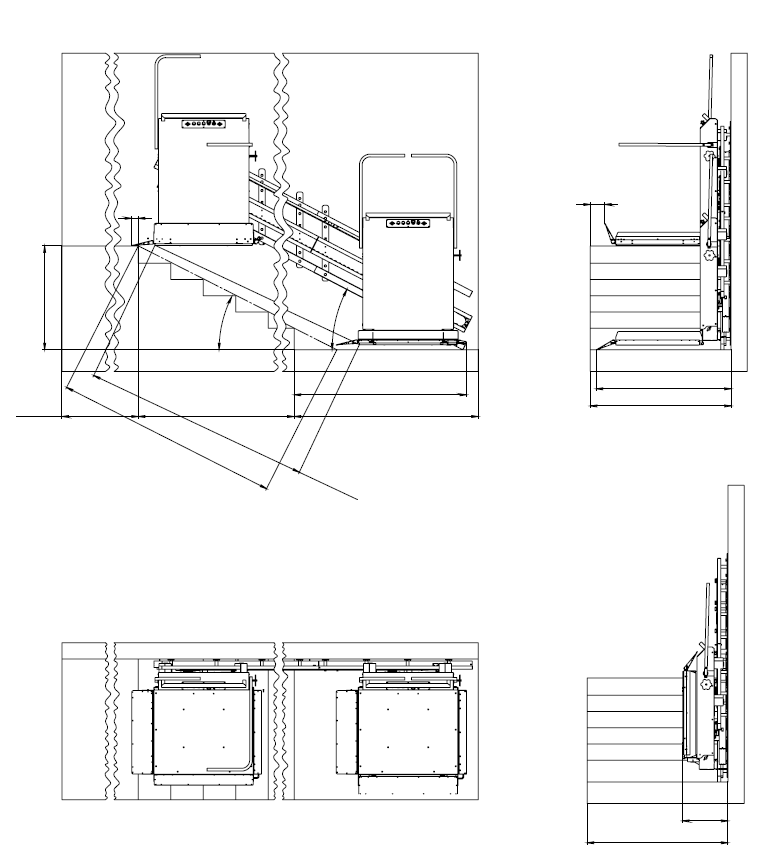
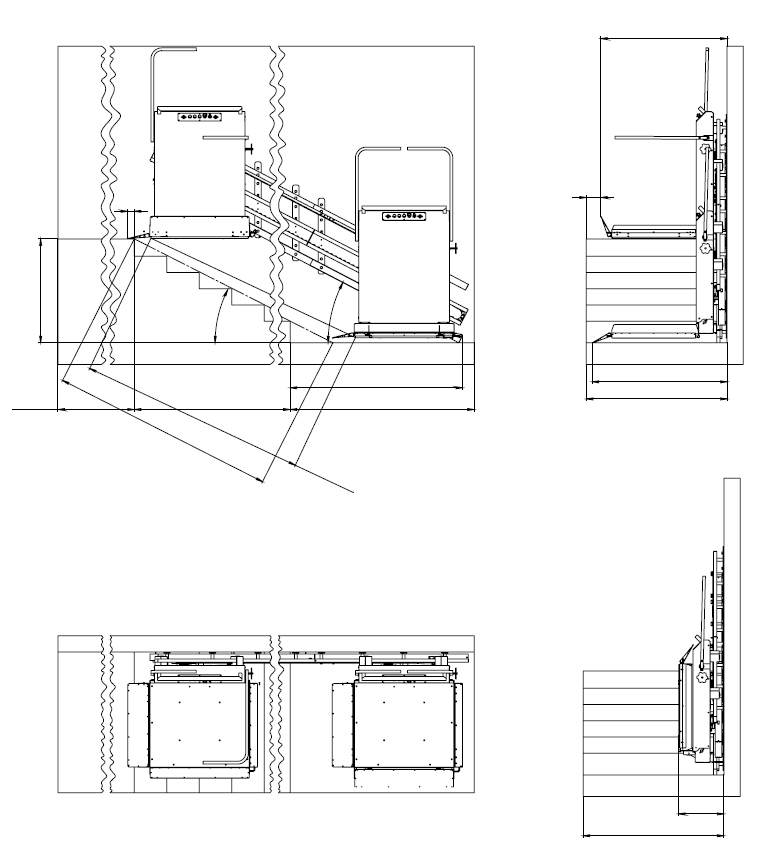
add

diff --git a/src/main/resources/templates/et/et-side-to-wall.html b/src/main/resources/templates/et/et-side-to-wall.html
@@ -22,46 +22,47 @@
     <main>
         <div class="container">
             <br>
-            <p class="text-center" style="color: #0f4c81"><b>Проходной к стене</b></p>
+            <p class="text-center" style="color: #0f4c81"><b>Боковой к стене</b></p>
             <div style="position: relative">
                 <img th:src="@{img/ЕТtoWallSide.png}" alt="Боковой к стене" width="780px"/>
 
-                <p class="text-on-img" style=" margin-top: -540px; margin-left: 210px; transform-origin: left; transform: rotate(-75deg);"
+                <p class="text-on-img" style=" margin-top: -540px; margin-left: 205px; transform-origin: left; transform: rotate(-75deg);"
                    th:text="${stair.angle} + '°'"/>
                 <p class="text-on-img" style=" margin-top: -432px; margin-left: 205px; transform-origin: left; transform: rotate(26deg);"
                    th:text="${stair.lengthStair}"/>
-                <p class="text-on-img" style=" margin-top: -560px; margin-left: 36px; transform-origin: left; transform: rotate(-90deg);"
+                <p class="text-on-img" style=" margin-top: -560px; margin-left: 31px; transform-origin: left; transform: rotate(-90deg);"
                    th:text="${stair.heightStair}"/>
 
-                <p class="text-on-img" style=" margin-top: -471px; margin-left: 18px; color: black" th:if="${et.rampClearance}" th:text="${stair.upperFloor}"/>
-                <p class="text-on-img" style=" margin-top: -471px; margin-left: 18px; color: red" th:unless="${et.rampClearance}" th:text="${stair.upperFloor}"/>
+                <p class="text-on-img" style=" margin-top: -473px; margin-left: 13px; color: black" th:if="${et.rampClearance}" th:text="${stair.upperFloor}"/>
+                <p class="text-on-img" style=" margin-top: -473px; margin-left: 13px; color: red" th:unless="${et.rampClearance}" th:text="${stair.upperFloor}"/>
 
-                <p class="text-on-img" style=" margin-top: -471px; margin-left: 400px; color: black" th:if="${et.lengthLowerPassing}" th:text="${stair.downFloor}"/>
-                <p class="text-on-img" style=" margin-top: -471px; margin-left: 400px; color: red" th:unless="${et.lengthLowerPassing}" th:text="${stair.downFloor}"/>
+                <p class="text-on-img" style=" margin-top: -473px; margin-left: 395px; color: black" th:if="${et.lengthLowerPassing}" th:text="${stair.downFloor}"/>
+                <p class="text-on-img" style=" margin-top: -473px; margin-left: 395px; color: red" th:unless="${et.lengthLowerPassing}" th:text="${stair.downFloor}"/>
 
-                <p class="text-on-img" style=" margin-top: -471px; margin-left: 240px;" th:text="${stair.horizontalLength}"/>
+                <p class="text-on-img" style=" margin-top: -473px; margin-left: 235px;" th:text="${stair.horizontalLength}"/>
 
-                <p class="text-on-img" style=" margin-top: -480px; margin-left: 660px; color: black" th:if="${et.widthPassingOnWall}" th:text="${stair.widthStair}"/>
-                <p class="text-on-img" style=" margin-top: -480px; margin-left: 660px; color: red" th:unless="${et.widthPassingOnWall}" th:text="${stair.widthStair}"/>
+                <p class="text-on-img" style=" margin-top: -483px; margin-left: 655px; color: black" th:if="${et.widthPassingOnWall}" th:text="${stair.widthStair}"/>
+                <p class="text-on-img" style=" margin-top: -483px; margin-left: 655px; color: red" th:unless="${et.widthPassingOnWall}" th:text="${stair.widthStair}"/>
 
-                <p class="text-on-img" style=" margin-top: -35px; margin-left: 660px; color: black" th:if="${et.widthPassingOnWall && et.checkFirePassageWay}" th:text="${stair.widthStair}"/>
-                <p class="text-on-img" style=" margin-top: -35px; margin-left: 660px; color: blue" th:if="${et.widthPassingOnWall && not et.checkFirePassageWay}" th:text="${stair.widthStair}"/>
-                <p class="text-on-img" style=" margin-top: -35px; margin-left: 660px; color: red" th:unless="${et.widthPassingOnWall}" th:text="${stair.widthStair}"/>
+                <p class="text-on-img" style=" margin-top: -45px; margin-left: 655px; color: black" th:if="${et.widthPassingOnWall && et.checkFirePassageWay}" th:text="${stair.widthStair}"/>
+                <p class="text-on-img" style=" margin-top: -45px; margin-left: 655px; color: blue" th:if="${et.widthPassingOnWall && not et.checkFirePassageWay}" th:text="${stair.widthStair}"/>
+                <p class="text-on-img" style=" margin-top: -45px; margin-left: 655px; color: red" th:unless="${et.widthPassingOnWall}" th:text="${stair.widthStair}"/>
 
                 <!--            Свойства платформы-->
 
-                <p class="text-on-img" style=" margin-top: -555px; margin-left: 328px; transform-origin: left; transform: rotate(-70deg); color: black"
+                <p class="text-on-img" style=" margin-top: -557px; margin-left: 321px; transform-origin: left; transform: rotate(-70deg); color: black"
                    th:if="${et.MaxAngle}" th:text="${et.currentAngle} + '°'"/>
-                <p class="text-on-img" style=" margin-top: -555px; margin-left: 328px; transform-origin: left; transform: rotate(-70deg); color: red"
+                <p class="text-on-img" style=" margin-top: -557px; margin-left: 321px; transform-origin: left; transform: rotate(-70deg); color: red"
                    th:unless="${et.MaxAngle}" th:text="${et.currentAngle} + '°'"/>
 
                 <p class="text-on-img" style=" margin-top: -410px; margin-left: 317px; transform-origin: left; transform: rotate(26deg);"
                    th:text="${et.lengthWay}"/>
-                <p class="text-on-img" style=" margin-top: -495px; margin-left: 400px;" th:text="${et.lengthLowerPlatformMin}"/>
-                <p class="text-on-img" style=" margin-top: -672px; margin-left: 130px;" th:text="${et.lengthClearanceRamp}"/>
-                <p class="text-on-img" style=" margin-top: -687px; margin-left: 600px;" th:text="${et.clearanceOnWall}"/>
-                <p class="text-on-img" style=" margin-top: -498px; margin-left: 660px;" th:text="${et.widthOnWallPassing}"/>
-                <p class="text-on-img" style=" margin-top: -59px; margin-left: 702px;" th:text="${et.foldedWall}"/>
+                <p class="text-on-img" style=" margin-top: -495px; margin-left: 400px;" th:text="${et.lengthLowerPlatformSideMin}"/>
+                <p class="text-on-img" style=" margin-top: -672px; margin-left: 120px;" th:text="${et.lengthClearanceRamp}"/>
+                <p class="text-on-img" style=" margin-top: -687px; margin-left: 582px;" th:text="${et.clearanceOnWall}"/>
+                <p class="text-on-img" style=" margin-top: -500px; margin-left: 655px;" th:text="${et.widthOnWallLowerSide}"/>
+                <p class="text-on-img" style=" margin-top: -66px; margin-left: 690px;" th:text="${et.foldedWall}"/>
+                <p class="text-on-img" style=" margin-top: -845px; margin-left: 655px;" th:text="${et.widthOnWallSide}"/>
 
                 <p class="text-on-img" style=" white-space: nowrap; margin-top: -302px; margin-left: 150px;">
                     <i>Максимальный зазор над лестнецей </i><i th:text="${et.clearanceMax}"/> мм

diff --git a/src/main/java/ru/duxa/stairweb/service/PlatformService.java b/src/main/java/ru/duxa/stairweb/service/PlatformService.java
@@ -165,6 +165,9 @@ public class PlatformService {
             platformDto.setWidthOnWallPassing(0);
             platformDto.setFoldedWall(0);
             platformDto.setClearanceOnWall(0);
+            platformDto.setWidthOnWallSide(0);
+            platformDto.setWidthOnWallLowerSide(0);
+
         }
 
 
